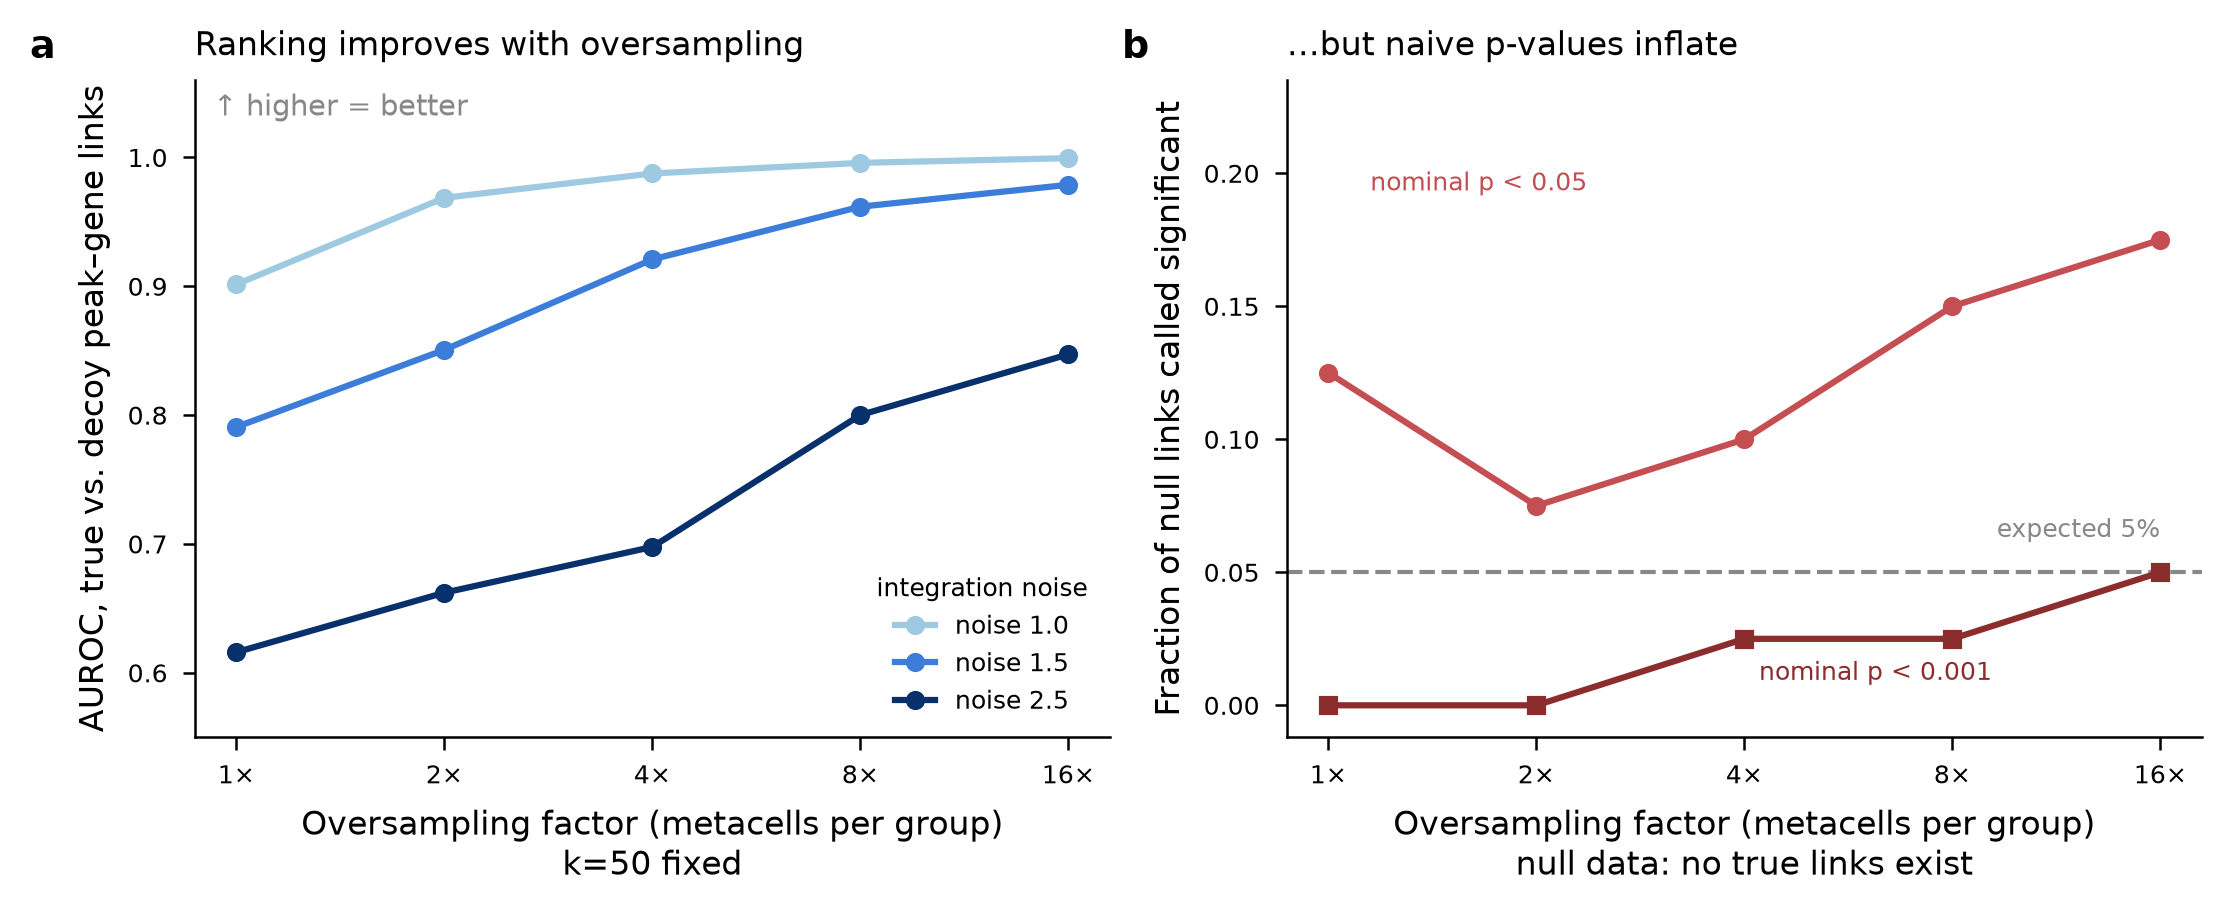
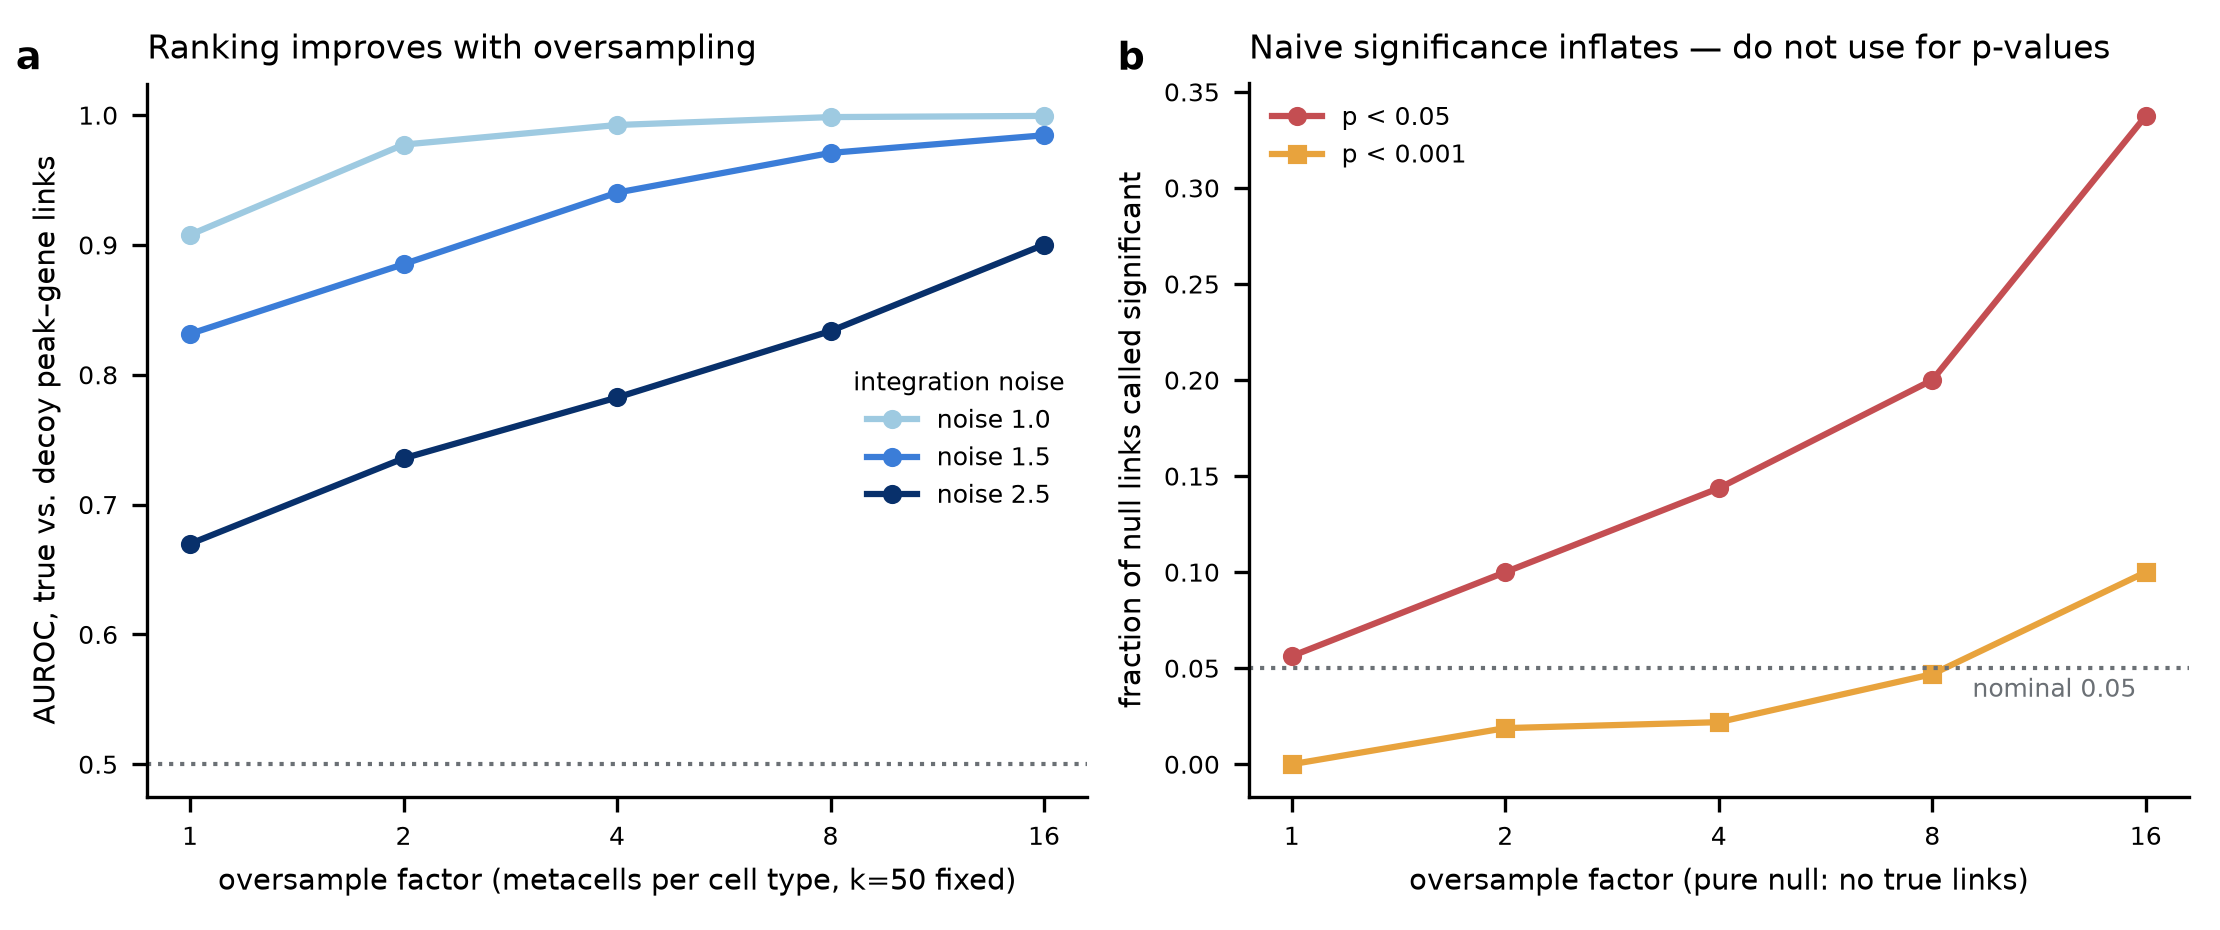
Close six review findings: stale sweep CSV, dangling flag, wrong attributions
The material one: docs/oversample_sweep.csv was the FIRST, saturated version of
the sweep (AUROC 0.9996-1.0 everywhere, no noise column) while the figure and
every quoted number came from a harder-regime sweep held only in kernel memory.
The committed CSV could not have produced the committed figure. Root cause: the
sweep had no script behind it, so there was nothing to re-run.

* docs/benchmark_oversample.py -- reproducible generator for BOTH sweeps. The
  ranking sweep (noise x k x oversample) and a separate pure-null calibration
  sweep, since they answer different questions: whether oversampling improves
  ranking, and whether it corrupts naive significance. Regenerates
  oversample_sweep.csv, oversample_null.csv and oversampling_tradeoff.png. The
  figure is now rendered from the CSVs, so the three cannot drift again.

  Re-running changed the numbers -- the in-memory sweep is not recoverable, so
  these are the ones that ship. Conclusion unchanged and now sharper: at k=50,
  noise 2.5, AUROC 0.6698 -> 0.9002 as oversample goes 1 -> 16 while median rho
  on true links stays flat (0.0471 -> 0.0472); under a pure null the naive
  p<0.05 rate rises 0.056 -> 0.338 and p<0.001 0.000 -> 0.100.

* The oversampling_caveat written into every .h5mu's provenance carried the old
  numbers. Corrected and verified programmatically against both CSVs.

* --oversample help text pointed at a --help-stats flag that never existed. Now
[…]

diff --git a/docs/benchmark_oversample.py b/docs/benchmark_oversample.py
@@ -1,0 +1,274 @@
+#!/usr/bin/env python3
+"""
+Does OVERSAMPLING (more metacells at fixed k) buy statistical power, or
+pseudoreplication?
+
+Reproduces `oversample_sweep.csv`, `oversample_null.csv` and
+`oversampling_tradeoff.png` (all written next to this script).
+
+WHY THIS EXISTS
+---------------
+Metacell SIZE (k) and metacell COUNT are independent knobs, because anchors may
+overlap: you can hold k=50 -- the size with the largest effect size in
+`benchmark_pairing.py` -- and still emit many more metacells. Whether the extra
+metacells carry information or merely re-weight the same cells is an empirical
+question, so it is measured here rather than asserted.
+
+DESIGN
+------
+Shared latent geometry, as in benchmark_pairing.py: cell-type centroids plus
+N_PROG independent within-cell-type programs. Peak i and gene i are both driven
+by program i, so (peak i, gene i) is a true link and (peak i, gene j) is a
+genuine decoy. Modality-specific noise added to the latent coordinates stands
+in for integration error.
+
+TWO SWEEPS, and they answer different questions:
+
+  * oversample_sweep.csv -- RANKING. AUROC separating true links from decoys, and
+    median rho on true links, over noise x k x oversample. The first version of
+    this sweep used only the easy regime (low noise) and saturated at AUROC
+    ~1.0, which is uninformative; the noise levels here are the harder regimes
+    where the question has teeth.
+
+  * oversample_null.csv -- CALIBRATION. Under a PURE NULL (no true links at
+    all), how often does a naive p-value that treats n_metacells as the sample
+    size clear 0.05 and 0.001? Overlapping metacells are not independent
+    observations, so this is where pseudoreplication would show up.
+
+The conclusion those two together support: oversample freely to improve
+RANKING, never to compute significance. `aggregate_atac_sparse.py` records
+`independent_metacell_equiv` for exactly that reason -- it is the honest
+denominator.
+
+Usage
+-----
+    python docs/benchmark_oversample.py             # full sweep
+    python docs/benchmark_oversample.py --quick     # fewer points
+"""
+import argparse
+from pathlib import Path
+
+import numpy as np
+import pandas as pd
+from scipy.stats import spearmanr, mannwhitneyu
+
+HERE = Path(__file__).resolve().parent
+CT = ["HSC", "MPP", "GMP", "MEP", "Mono", "Ery"]
+N_PROG, N_NOISE, DIM = 40, 200, 30
+
+# Shared latent geometry: the same centroids and program directions for both
+# modalities, which is what a GLUE co-embedding approximates.
+_RG = np.random.default_rng(0)
+BASE = {c: _RG.normal(0, 1, DIM) * 2.0 for c in CT}
+PROG = _RG.normal(0, 1, (N_PROG, DIM))
+PROG /= np.linalg.norm(PROG, axis=1, keepdims=True)
+
+
+def build(n_rna, n_atac, noise, seed, linked=True):
+    """Two unpaired modalities on the shared geometry.
+
+    linked=False severs the peak-gene correspondence, giving a pure null.
+    """
+    r = np.random.default_rng(seed)
+
+    def side(n):
+        lab = r.choice(CT, n)
+        act = r.uniform(0, 1, (n, N_PROG))
+        Z = np.vstack([BASE[l] for l in lab]) + act @ PROG \
+            + r.normal(0, noise, (n, DIM))
+        return lab, act, Z.astype(np.float32)
+
+    lr, ar, Zr = side(n_rna)
+    la, aa, Za = side(n_atac)
+
+    def mat(act, shuffle_cols):
+        M = r.normal(0, 1, (len(act), N_PROG + N_NOISE))
+        drive = act[:, r.permutation(N_PROG)] if shuffle_cols else act
+        M[:, :N_PROG] += 3.0 * drive
+        return M.astype(np.float32)
+
+    # Under the null the ATAC programs are permuted relative to RNA, so peak i
+    # and gene i are driven by different programs while every marginal
+    # distribution is unchanged.
+    return (lr, ar, Zr, mat(ar, False)), (la, aa, Za, mat(aa, not linked))
+
+
+def l2(Z):
+    n = np.linalg.norm(Z, axis=1, keepdims=True)
+    return Z / np.where(n == 0, 1, n)
+
+
+def pair(rna, atac, k, oversample, seed=0):
+    """GLUE-anchored pairing, matching build_metacells_for_group: farthest-point
+    anchors, then per-modality nearest neighbours. Anchors may overlap, which is
+    what makes oversampling possible at fixed k."""
+    lr, _, Zr, Er = rna
+    la, _, Za, Aa = atac
+    Zr, Za = l2(Zr), l2(Za)
+    rng = np.random.default_rng(seed)
+    E, A = [], []
+    for c in CT:
+        ir = np.flatnonzero(lr == c)
+        ia = np.flatnonzero(la == c)
+        if len(ir) < k or len(ia) < k:
+            continue
+        n_mc = max(1, int(min(len(ir), len(ia)) / k * oversample))
+        Zrg, Zag = Zr[ir], Za[ia]
+        # farthest-point anchor selection in the shared space
+        anchors = [rng.integers(len(Zrg))]
+        d = np.linalg.norm(Zrg - Zrg[anchors[0]], axis=1)
+        while len(anchors) < n_mc:
+            nxt = int(np.argmax(d))
+            anchors.append(nxt)
+            d = np.minimum(d, np.linalg.norm(Zrg - Zrg[nxt], axis=1))
+        for a in anchors:
+            z = Zrg[a]
+            nr = ir[np.argsort(np.linalg.norm(Zrg - z, axis=1))[:k]]
+            na = ia[np.argsort(np.linalg.norm(Zag - z, axis=1))[:k]]
+            E.append(Er[nr].mean(0))
+            A.append(Aa[na].mean(0))
+    return np.vstack(E), np.vstack(A)
+
+
+def score(E, Acc, n_decoy=2000):
+    true_rho = np.array([spearmanr(Acc[:, i], E[:, i]).statistic
+                         for i in range(N_PROG)])
+    off = [(i, j) for i in range(N_PROG) for j in range(N_PROG) if i != j][:n_decoy]
+    decoy = np.array([spearmanr(Acc[:, i], E[:, j]).statistic for i, j in off])
+    ok_t, ok_d = np.isfinite(true_rho), np.isfinite(decoy)
+    auroc = (mannwhitneyu(true_rho[ok_t], decoy[ok_d], alternative="greater").statistic
+             / (ok_t.sum() * ok_d.sum()))
+    return (float(np.median(true_rho[ok_t])), float(np.median(decoy[ok_d])),
+            float(auroc))
+
+
+def sweep_ranking(noises, ks, oversamples, n_rna=20_000, n_atac=8_000):
+    rows = []
+    for noise in noises:
+        data = build(n_rna, n_atac, noise=noise, seed=5)
+        for k in ks:
+            for ov in oversamples:
+                E, A = pair(*data, k=k, oversample=ov)
+                rt, rd, au = score(E, A)
+                rows.append(dict(noise=noise, k=k, oversample=ov,
+                                 n_metacells=E.shape[0],
+                                 rho_true=round(rt, 4), rho_decoy=round(rd, 4),
+                                 auroc=round(au, 4)))
+                print(f"  noise={noise} k={k} ov={ov:2d} -> "
+                      f"n={E.shape[0]:5d} rho={rt:+.3f} auroc={au:.3f}", flush=True)
+    return pd.DataFrame(rows)
+
+
+def sweep_null(oversamples, k=50, noise=1.0, n_rep=8):
+    """Pure null: no true peak-gene links. A naive p-value treating n_metacells
+    as the sample size should reject at ~5%; if the rate climbs with
+    oversampling, those metacells are not independent observations."""
+    rows = []
+    for ov in oversamples:
+        p05, p001, ns = [], [], []
+        for rep in range(n_rep):
+            data = build(6_000, 4_000, noise=noise, seed=100 + rep, linked=False)
+            E, A = pair(*data, k=k, oversample=ov, seed=rep)
+            ps = []
+            for i in range(N_PROG):
+                r = spearmanr(A[:, i], E[:, i])
+                if np.isfinite(r.pvalue):
+                    ps.append(r.pvalue)
+            ps = np.array(ps)
+            p05.append((ps < 0.05).mean())
+            p001.append((ps < 0.001).mean())
+            ns.append(E.shape[0])
+        rows.append(dict(oversample=ov, k=k, noise=noise,
+                         mean_n_metacells=int(np.mean(ns)),
+                         frac_p_lt_0p05=round(float(np.mean(p05)), 4),
+                         frac_p_lt_0p001=round(float(np.mean(p001)), 4)))
+        print(f"  null ov={ov:2d} -> n={int(np.mean(ns)):5d} "
+              f"p<0.05: {np.mean(p05):.3f}  p<0.001: {np.mean(p001):.3f}", flush=True)
+    return pd.DataFrame(rows)
+
+
+def make_figure(sw, nl, path):
+    import matplotlib
+    matplotlib.use("Agg")
+    import matplotlib.pyplot as plt
+    plt.rcParams.update({"font.size": 7, "axes.titlesize": 8,
+                         "axes.labelsize": 7, "legend.fontsize": 6,
+                         "xtick.labelsize": 6, "ytick.labelsize": 6})
+    GREY = "#6b7075"
+    C = {1.0: "#9ecae1", 1.5: "#3b7dd8", 2.5: "#08306b"}
+    fig, (axA, axB) = plt.subplots(1, 2, figsize=(7.4, 3.1))
+
+    h = sw[sw.k == 50]
+    for nz in sorted(h.noise.unique()):
+        d = h[h.noise == nz].sort_values("oversample")
+        axA.plot(d.oversample, d.auroc, "-o", ms=3.6, lw=1.5,
+                 color=C.get(nz, GREY), label=f"noise {nz}")
+    axA.set_xscale("log", base=2)
+    axA.set_xticks(sorted(h.oversample.unique()))
+    axA.set_xticklabels([str(x) for x in sorted(h.oversample.unique())])
+    axA.axhline(0.5, ls=":", lw=1.0, color=GREY)
+    axA.set_xlabel("oversample factor (metacells per cell type, k=50 fixed)")
+    axA.set_ylabel("AUROC, true vs. decoy peak\u2013gene links")
+    axA.set_title("Ranking improves with oversampling", loc="left")
+    axA.legend(frameon=False, title="integration noise", title_fontsize=6)
+
+    axB.plot(nl.oversample, nl.frac_p_lt_0p05, "-o", ms=3.6, lw=1.5,
+             color="#c44e52", label="p < 0.05")
+    axB.plot(nl.oversample, nl.frac_p_lt_0p001, "-s", ms=3.6, lw=1.5,
+             color="#e8a33d", label="p < 0.001")
+    axB.axhline(0.05, ls=":", lw=1.0, color=GREY)
+    axB.set_xscale("log", base=2)
+    axB.set_xticks(list(nl.oversample))
+    axB.set_xticklabels([str(x) for x in nl.oversample])
+    axB.set_xlabel("oversample factor (pure null: no true links)")
+    axB.set_ylabel("fraction of null links called significant")
+    axB.set_title("Naive significance inflates \u2014 do not use for p-values",
+                  loc="left")
+    axB.legend(frameon=False)
+    # Label the reference line at the RIGHT edge, below it: at the left edge it
+    # sits directly on the p<0.05 series, which starts at 0.056.
+    axB.text(nl.oversample.max() * 0.97, 0.045, "nominal 0.05",
+             fontsize=6, color=GREY, va="top", ha="right")
+
+    for ax, L in ((axA, "a"), (axB, "b")):
+        ax.text(-0.14, 1.06, L, transform=ax.transAxes, fontsize=9,
+                fontweight="bold", va="top")
+        for sp in ("top", "right"):
+            ax.spines[sp].set_visible(False)
+    fig.tight_layout()
+    fig.savefig(path, dpi=300)
+    print(f"wrote {path}")
+
+
+def main():
+    ap = argparse.ArgumentParser()
+    ap.add_argument("--quick", action="store_true")
+    args = ap.parse_args()
+    noises = [1.0, 2.5] if args.quick else [1.0, 1.5, 2.5]
+    ks = [50] if args.quick else [25, 50]
+    ovs = [1, 4, 16] if args.quick else [1, 2, 4, 8, 16]
+
+    print("ranking sweep (harder regimes -- the easy regime saturates at AUROC 1.0)")
+    sw = sweep_ranking(noises, ks, ovs)
+    sw.to_csv(HERE / "oversample_sweep.csv", index=False)
+    print(f"wrote {HERE / 'oversample_sweep.csv'}")
+
+    print("\nnull calibration sweep")
+    nl = sweep_null(ovs, n_rep=4 if args.quick else 8)
+    nl.to_csv(HERE / "oversample_null.csv", index=False)
+    print(f"wrote {HERE / 'oversample_null.csv'}")
+
+    make_figure(sw, nl, HERE / "oversampling_tradeoff.png")
+
+    k50 = sw[sw.k == 50]
+    print("\nAUROC at k=50, by noise x oversample:")
+    print(k50.pivot_table(index="noise", columns="oversample",
+                          values="auroc").to_string())
+    print("\nmedian rho on true links (flat across oversample = no effect-size "
+          "inflation):")
+    print(k50.pivot_table(index="noise", columns="oversample",
+                          values="rho_true").to_string())
+
+
+if __name__ == "__main__":
+    main()

diff --git a/02_pair/aggregate_atac_sparse.py b/02_pair/aggregate_atac_sparse.py
@@ -131,7 +131,10 @@ def main():
                     help="Metacells per group = (cells/k) * OVERSAMPLE. Values >1 "
                          "mean metacells share cells. This improves link RANKING "
                          "(more, better-conditioned observations for the GBM) but "
-                         "does NOT add independent information -- see --help-stats. "
+                         "does NOT add independent information: the diagnostics "
+                         "record independent_metacell_equiv, which is the honest "
+                         "denominator for judging how well a link is supported. "
+                         "See docs/benchmark_oversample.py. "
                          "4-8 is a reasonable range when compute is cheap; the "
                          "returns are largest for small populations. (default: 2)")
     ap.add_argument("--min-metacells-per-group", type=int, default=0,
@@ -425,14 +428,17 @@ def main():
                    "covariation, not single-nucleus co-occurrence."),
         "oversampling_caveat": (
             "With oversample > 1 metacells SHARE cells and are not independent "
-            "observations. Simulation: oversampling improves true-vs-decoy link "
-            "RANKING (AUROC 0.79 -> 0.98 at high integration noise, k=50) while "
-            "median rho on true links stays flat -- but under a pure null the "
-            "naive p<0.05 rate rises from 0.125 to 0.175 and p<0.001 from 0.000 "
-            "to 0.050 as oversample goes 1 -> 16. Treat SCENIC+ region-to-gene "
-            "p-values as ranking scores, not calibrated significance, and judge "
-            "support using independent_metacell_equiv in the diagnostics rather "
-            "than n_metacells.")}
+            "observations. Measured in docs/benchmark_oversample.py "
+            "(docs/oversample_sweep.csv, docs/oversample_null.csv): oversampling "
+            "improves true-vs-decoy link RANKING -- at k=50 and noise 2.5, AUROC "
+            "0.6698 -> 0.9002 as oversample goes 1 -> 16 -- while median rho on "
+            "true links stays flat (0.0471 -> 0.0472), so effect sizes are not "
+            "inflated. But under a pure null the naive p<0.05 rate rises from "
+            "0.056 to 0.338 and p<0.001 from 0.000 to 0.100 over the same range. "
+            "Treat SCENIC+ region-to-gene p-values as ranking scores, not "
+            "calibrated significance, and judge support using "
+            "independent_metacell_equiv in the diagnostics rather than "
+            "n_metacells.")}
     args.out.parent.mkdir(parents=True, exist_ok=True)
     md.write_h5mu(str(args.out))
     _log(f"wrote {args.out}: {M_rna.shape[0]} metacells, "

diff --git a/RUNBOOK.md b/RUNBOOK.md
@@ -117,7 +117,7 @@ sbatch slurm/pairing.sbatch
 |---|---|---|
 | partition | `batch` | `cluster.yaml` `__default__`, and both `run_pipeline_*.sh` wrappers |
 | account | *not set* | no lab script specifies one; the default `maxsonlab` applies |
-| logs | `jobs/<name>_%j.{out,err}` | `cluster.yaml` error/out keys |
+| logs | `jobs/<name>_%j.{out,err}` | `run_pipeline_conda.sh` (`--output=jobs/run_pipeline_%j.log`); `cluster.yaml` uses the nested `jobs/{rule}/{rule}_%j.*` for per-rule jobs |
 | conda | activate before `sbatch` | `run_pipeline_conda.sh` header comments |
 
 `slurm/pairing.sbatch` hardcodes `--partition=batch` accordingly, so no flags
